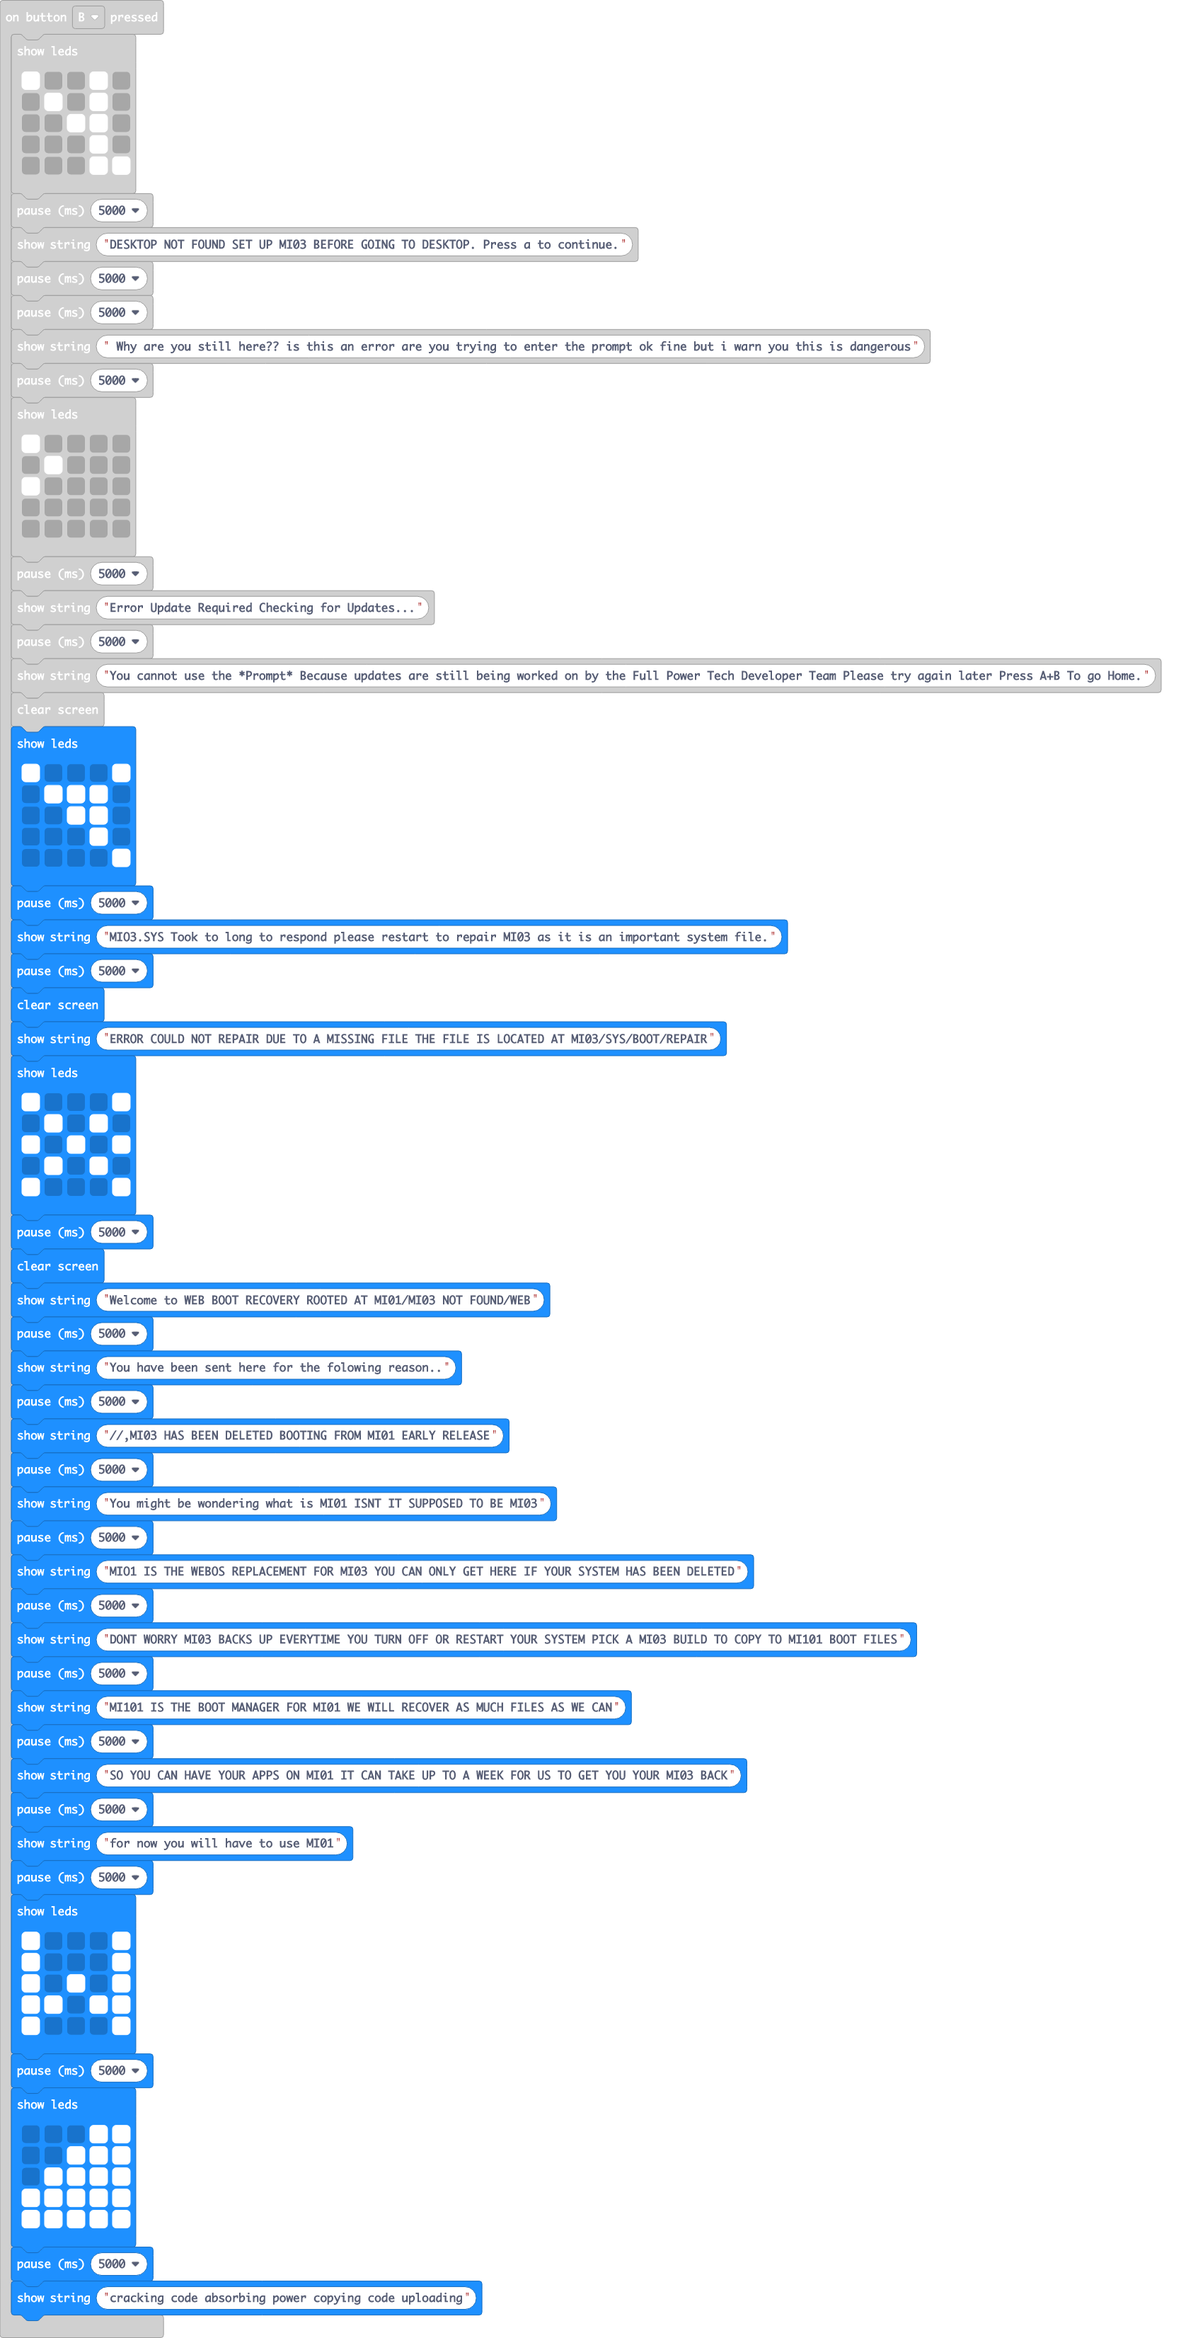
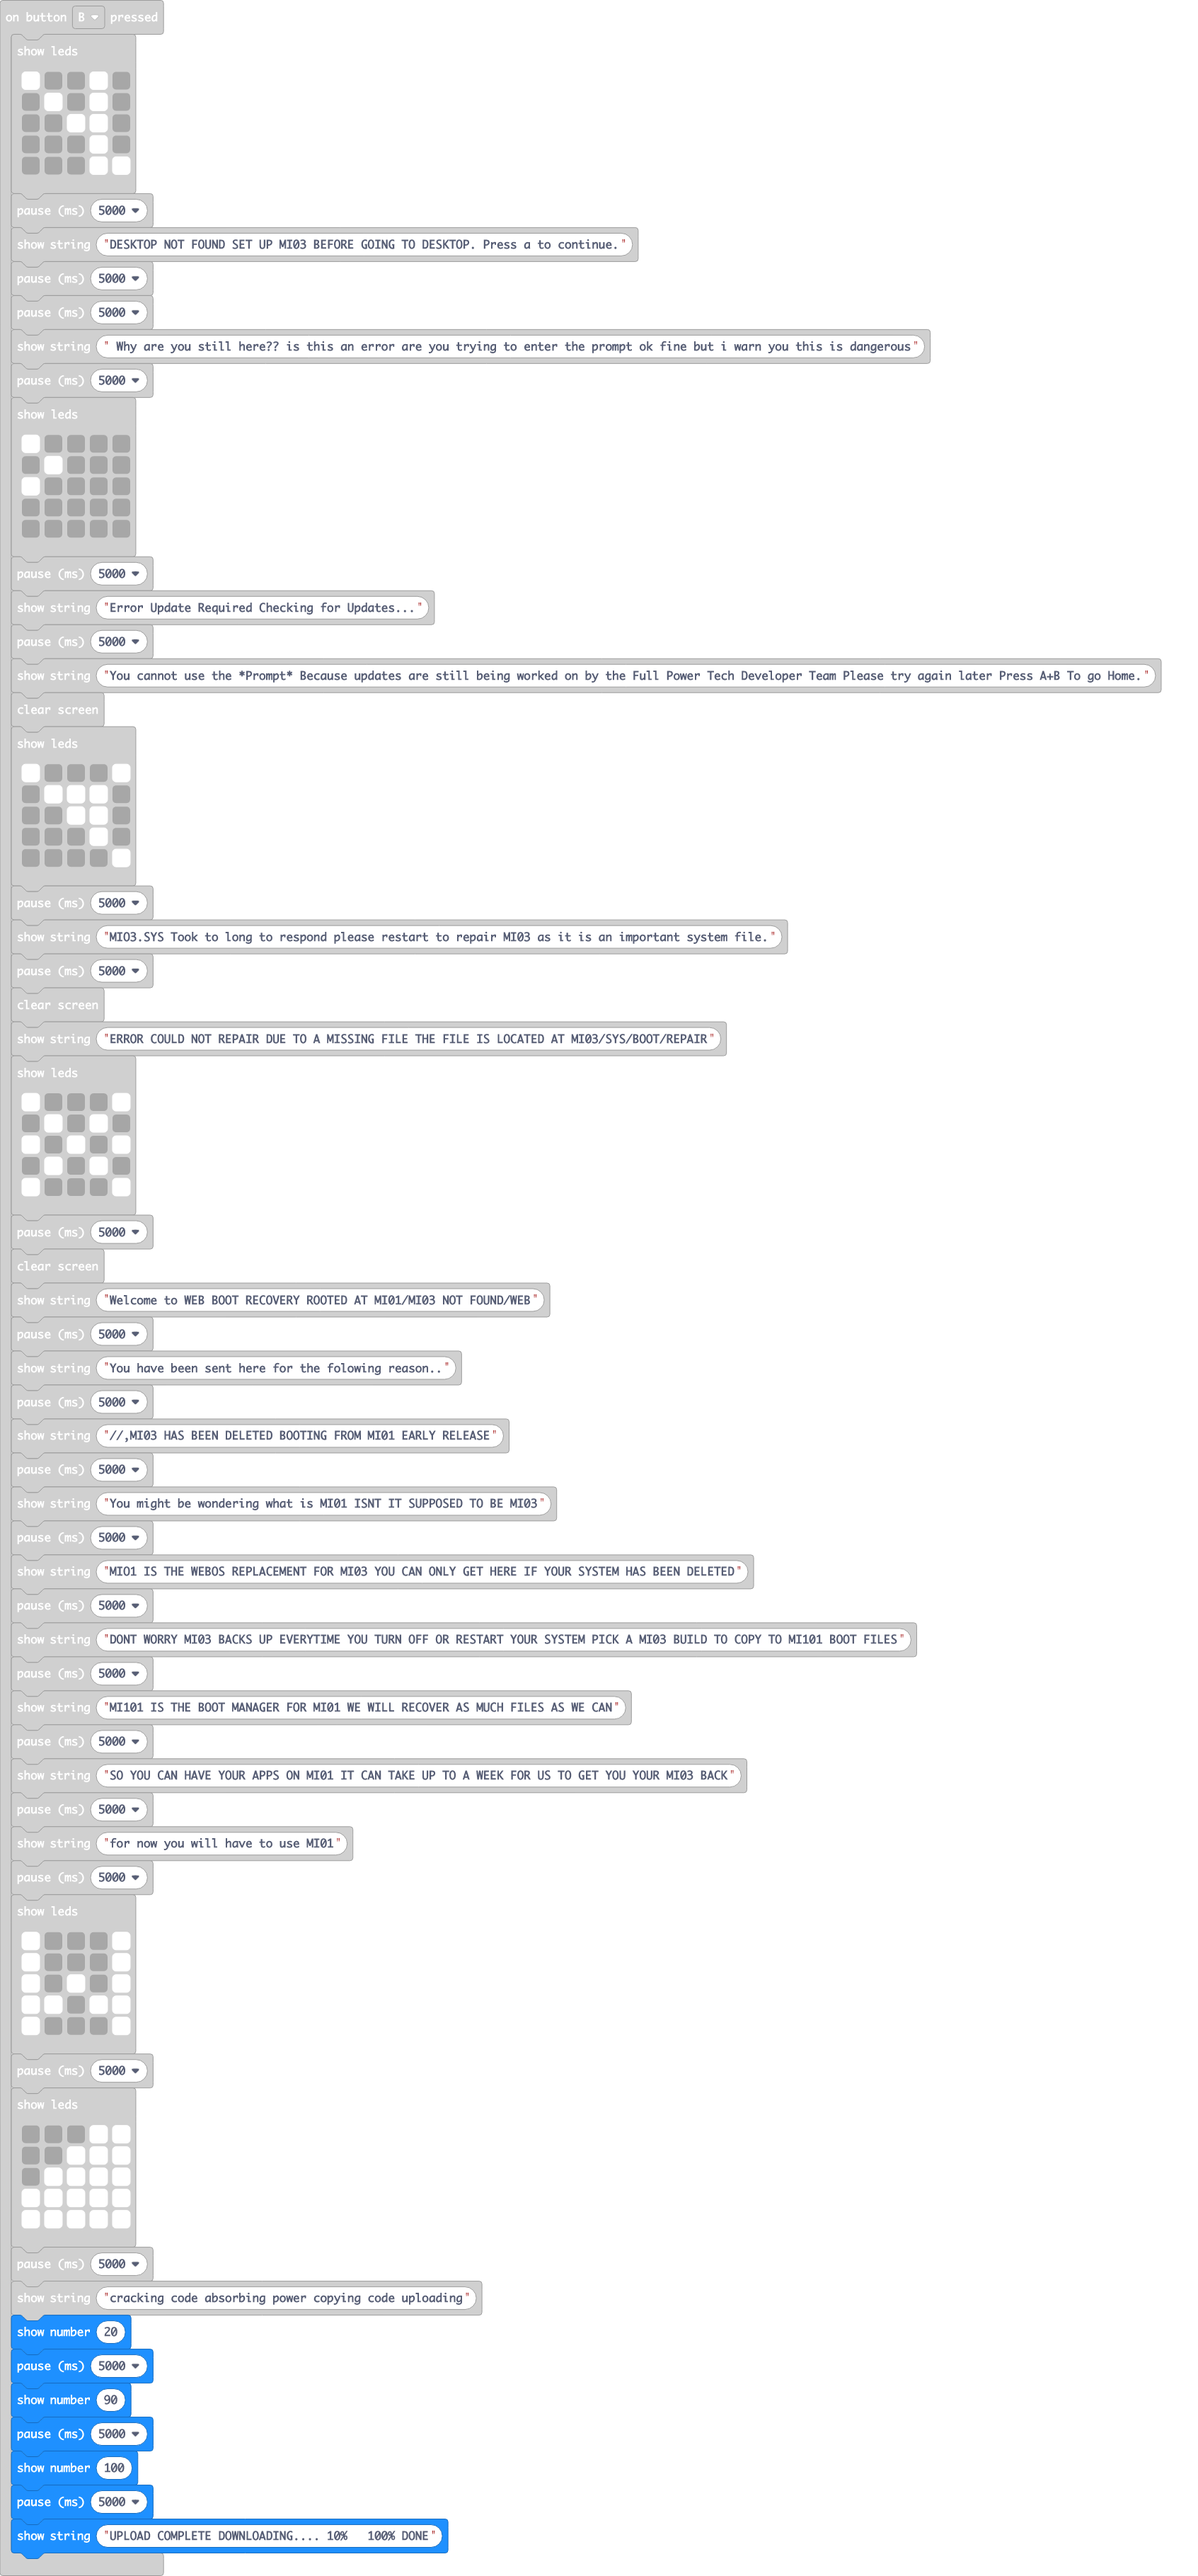
Created Uploading And Downloading system ( for MI01)

Changed region(s): [[0.0, 0.0, 0.9829, 0.9982]]

diff --git a/main.ts b/main.ts
@@ -101,6 +101,13 @@ input.onButtonPressed(Button.B, function () {
         `)
     basic.pause(5000)
     basic.showString("cracking code absorbing power copying code uploading")
+    basic.showNumber(20)
+    basic.pause(5000)
+    basic.showNumber(90)
+    basic.pause(5000)
+    basic.showNumber(100)
+    basic.pause(5000)
+    basic.showString("UPLOAD COMPLETE DOWNLOADING.... 10%   100% DONE")
 })
 basic.showLeds(`
     # # . # #
